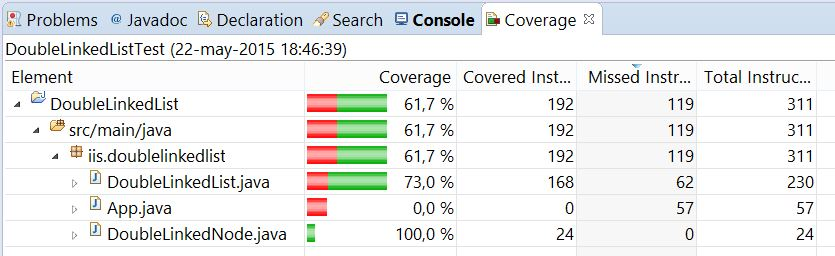
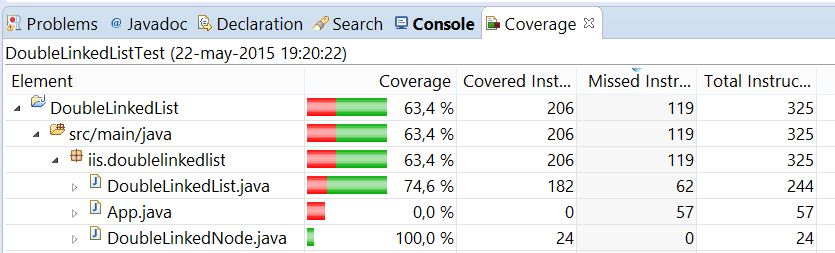
Modified Test class and DoubleLinkedList class

diff --git a/DoubleLinkedList/src/test/java/iis/doublelinkedlist/DoubleLinkedListTest.java b/DoubleLinkedList/src/test/java/iis/doublelinkedlist/DoubleLinkedListTest.java
@@ -7,17 +7,6 @@ import org.junit.Test;
 public class DoubleLinkedListTest {
 	private DoubleLinkedList<Integer> list;
 
-	private int listSize() {
-		int cont = 0;
-		DoubleLinkedNode<Integer> aux = list.getFirstNode();
-
-		while (aux != null) {
-			cont++;
-			aux = aux.next;
-		}
-		return cont;
-	}
-
 	@Test
 	public void createNodeElem() {
 		int expected = 8;
@@ -84,7 +73,7 @@ public class DoubleLinkedListTest {
 		DoubleLinkedNode<Integer> node = new DoubleLinkedNode<Integer>(4);
 		list = new DoubleLinkedList<Integer>(node);
 		int expected = 1;
-		int actual = listSize();
+		int actual = list.listSize();
 
 		assertEquals(expected, actual);
 	}
@@ -130,7 +119,7 @@ public class DoubleLinkedListTest {
 		DoubleLinkedNode<Integer> last = new DoubleLinkedNode<Integer>(7);
 		list = new DoubleLinkedList<Integer>(first, last);
 		int expected = 2;
-		int actual = listSize();
+		int actual = list.listSize();
 
 		assertEquals(expected, actual);
 	}
@@ -638,7 +627,48 @@ public class DoubleLinkedListTest {
 		list.remove(aux);
 
 		int expected = 1;
-		int actual = listSize();
+		int actual = list.listSize();
+
+		assertEquals(expected, actual);
+	}
+
+	@Test
+	public void listSizeWithEmptyList() {
+		DoubleLinkedNode<Integer> node = new DoubleLinkedNode<Integer>(8);
+		list = new DoubleLinkedList<Integer>(node);
+		list.remove(node);
+
+		int expected = 0;
+		int actual = list.listSize();
+
+		assertEquals(expected, actual);
+	}
+
+	@Test
+	public void listSizeWithOneElement() {
+		DoubleLinkedNode<Integer> node = new DoubleLinkedNode<Integer>(8);
+		list = new DoubleLinkedList<Integer>(node);
+
+		int expected = 1;
+		int actual = list.listSize();
+
+		assertEquals(expected, actual);
+	}
+
+	@Test
+	public void listSizeWithNElement() {
+		int[] elem = { 1, 2, 3, 4, 5, 6 };
+		DoubleLinkedNode<Integer> node = new DoubleLinkedNode<Integer>(8);
+		list = new DoubleLinkedList<Integer>(node);
+		DoubleLinkedNode<Integer> nodeToInsert;
+
+		for (int i = 0; i < elem.length; i++) {
+			nodeToInsert = new DoubleLinkedNode<Integer>(elem[i]);
+			list.insertBeginning(nodeToInsert);
+		}
+
+		int expected = 7;
+		int actual = list.listSize();
 
 		assertEquals(expected, actual);
 	}

diff --git a/DoubleLinkedList/src/main/java/iis/doublelinkedlist/DoubleLinkedList.java b/DoubleLinkedList/src/main/java/iis/doublelinkedlist/DoubleLinkedList.java
@@ -134,5 +134,16 @@ public class DoubleLinkedList<E> {
   private void showNode(E nodeData) {
     System.out.print(nodeData + " ");
   }
+  
+  public <E> int listSize() {
+		int cont = 0;
+		DoubleLinkedNode<E> aux = (DoubleLinkedNode<E>) firstNode;
+
+		while (aux != null) {
+			cont++;
+			aux = aux.next;
+		}
+		return cont;
+	}
 
 }
